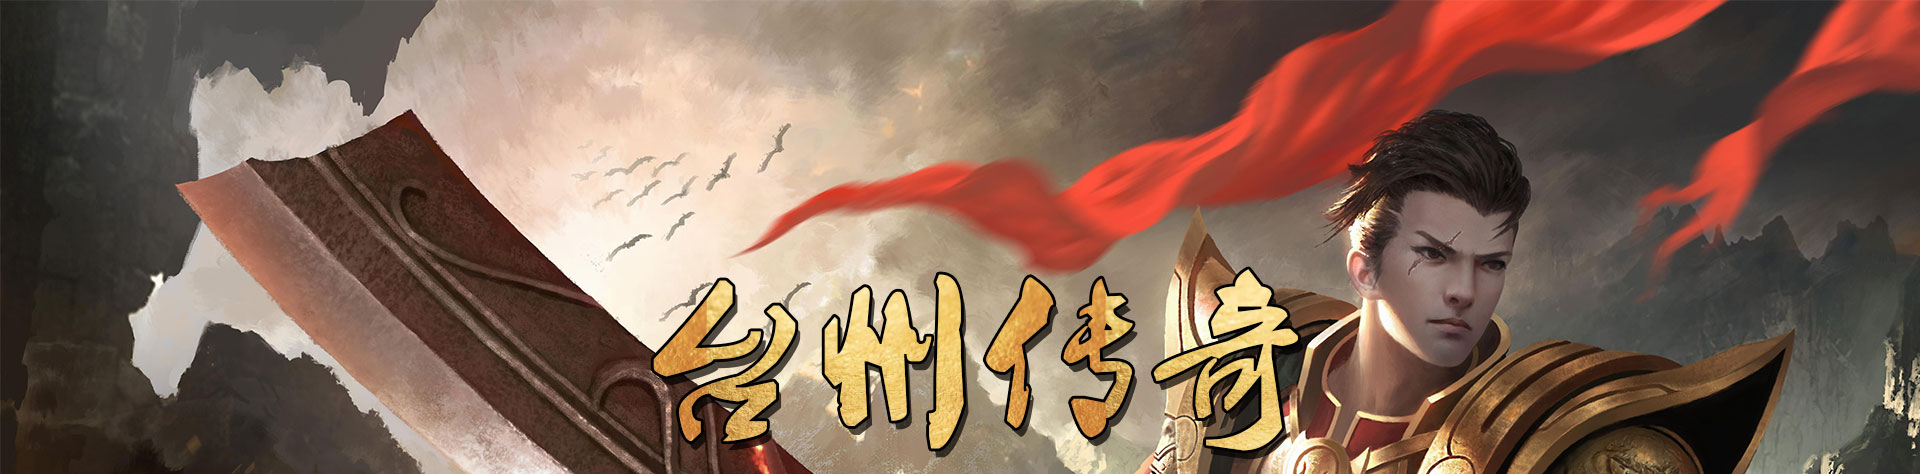
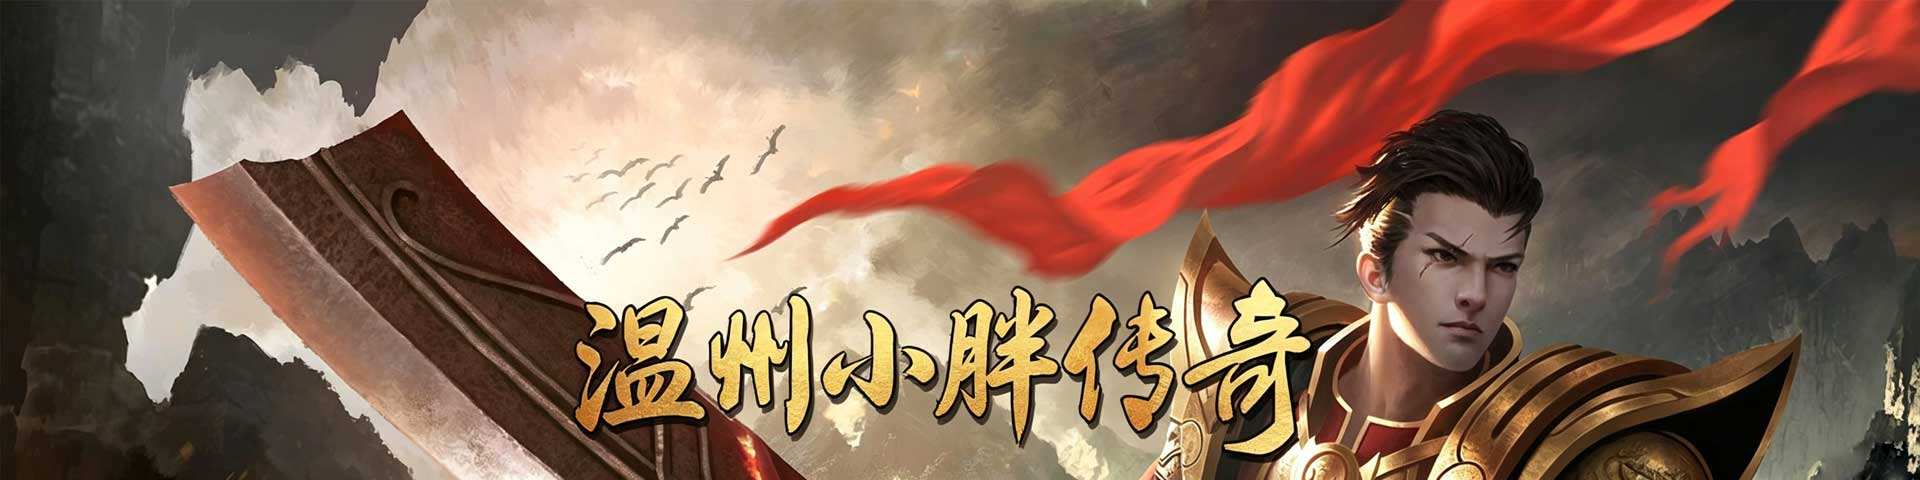
网站1.07

diff --git a/index.html b/index.html
@@ -3,7 +3,7 @@
 <html xmlns="http://www.w3.org/1999/xhtml">
 <head>
 <meta http-equiv="Content-Type" content="text/html; charset=utf-8" />
-<title>温州小胖传奇</title>
+<title>温州小胖传奇 1.76特色公益零充 散人友好</title>
 <style type="text/css">
 body{
 	margin:0px;
@@ -17,7 +17,7 @@ body{
 	<div align="center" style="margin:0 auto; width:1200px;">
 <table width="1200" height="164" border="0" cellpadding="0" cellspacing="0">
   <tr>
-    <td width="372" valign="bottom"><div align="center"><a href="#"><img src="images/dhs_tzcqgy.png" width="373" height="74" /></a></div></td>
+    <td width="372" valign="bottom"><div align="center"><a href="ziyemian/176gongyi.html"><img src="images/dhs_tzcqgy.png" width="373" height="74" /></a></div></td>
     <td width="400" valign="bottom"><div align="center"><a href="#"><img src="images/tzzshj.png" width="373" height="74" /></a></div></td>
 
     <td width="400" valign="bottom"><div align="center"><a href="#"><img src="images/dh_ahzc.png" width="373" height="74" /></a></div></td>
@@ -40,24 +40,24 @@ body{
         <table border="0" cellspacing="0" cellpadding="0">
           <tr>
             <td width="220">
-              <div align="center" style="padding-top:50px;"><img src="managesystem/uploadfiles/202601302122165.png" width="186" height="186" /></div>
-              <div align="center" style=" font-size:24px; color:#FFF; font-weight:bold;">合击交流13群</div>
+              <div align="center" style="padding-top:50px;"><img src="managesystem/uploadfiles/DiYi TZ.png" width="186" height="186" /></div>
+              <div align="center" style=" font-size:24px; color:#FFF; font-weight:bold;">公益一统战群</div>
               </td>
             <td width="220">
-              <div align="center" style="padding-top:50px;"><img src="managesystem/uploadfiles/202452411521462.png" width="186" height="186" /></div>
-              <div align="center" style=" font-size:24px; color:#FFF; font-weight:bold;">台州传奇客服</div>
+              <div align="center" style="padding-top:50px;"><img src="managesystem/uploadfiles/KeFu WX.png" width="186" height="186" /></div>
+              <div align="center" style=" font-size:24px; color:#FFF; font-weight:bold;">客服微信</div>
               </td>
             <td width="220">
-              <div align="center" style="padding-top:50px;"><img src="managesystem/uploadfiles/202511713440580.png" width="186" height="186" /></div>
-              <div align="center" style=" font-size:24px; color:#FFF; font-weight:bold;">极品加8三端交流群(非合击)</div>
+              <div align="center" style="padding-top:50px;"><img src="managesystem/uploadfiles/QQ hao.png" width="186" height="186" /></div>
+              <div align="center" style=" font-size:24px; color:#FFF; font-weight:bold;">客服QQ</div>
               </td>
             <td width="220">
-              <div align="center" style="padding-top:50px;"><img src="managesystem/uploadfiles/202516151130550.png" width="186" height="186" /></div>
-              <div align="center" style=" font-size:24px; color:#FFF; font-weight:bold;">1.76极品加八[不是合击]手游端</div>
+              <div align="center" style="padding-top:50px;"><img src="managesystem/uploadfiles/QQ qun.png" width="186" height="186" /></div>
+              <div align="center" style=" font-size:24px; color:#FFF; font-weight:bold;">QQ群</div>
               </td>
             <td width="220">
-              <div align="center" style="padding-top:50px;"><img src="managesystem/uploadfiles/20257595456104.png" width="186" height="186" /></div>
-              <div align="center" style=" font-size:24px; color:#FFF; font-weight:bold;">1.76公益命格版总群</div>
+              <div align="center" style="padding-top:50px;"><img src="managesystem/uploadfiles/DiYi TZ.png" width="186" height="186" /></div>
+              <div align="center" style=" font-size:24px; color:#FFF; font-weight:bold;">公益一统战群</div>
               </td>
             </tr>
           </table>

diff --git a/ziyemian/176gongyi.html b/ziyemian/176gongyi.html
@@ -1,0 +1,32 @@
+<!DOCTYPE html>
+<html>
+<head>
+    <meta charset="utf-8">
+    <title>温州小胖传奇</title>
+    <style>
+        body {
+            text-align: center;
+            font-family: "微软雅黑",sans-serif;
+            margin-top:80px;
+        }
+        a {
+            font-size:26px;
+            color:#ff3333;
+            font-weight:bold;
+        }
+    </style>
+</head>
+<body>
+    <h1>温州小胖传奇</h1>
+    <h2>wzxpcq.com  </h2>
+
+    <h2>做一个长期良心服</h2>
+    <h2>公平，公正，散人友好</h2>
+    <h2>敬请期待</h2>
+    <br>
+    <h2>微端下载：<a href="https://wwbms.lanzoub.com/i3y5C46pueuf" target="_blank">点击下载</a></h2>
+    <br>
+    <h2>下载密码：dy92</h2>
+
+</body>
+</html>

diff --git a/自己网站备份/index - 副本.html b/自己网站备份/index - 副本.html
@@ -1,0 +1,16 @@
+<!DOCTYPE html>
+<html>
+<head>
+    <meta charset="utf-8">
+    <title>测试页面</title>
+</head>
+<body>
+    <h1>温州小胖传奇</h1>
+<h2>做一个长期良心服<h2>
+
+<h2>公平，公正，散人友好<h2>
+<h2>敬请期待<h2>
+
+     <h2>Q群：743622641 <h2>
+</body>
+</html>
